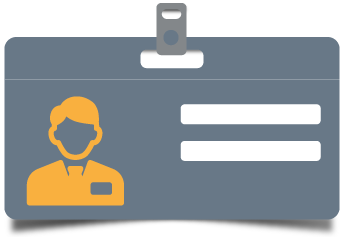
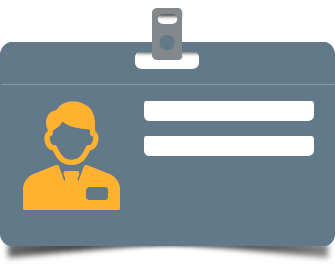
Acceso con select de companía

Changed region(s): [[0.0, 0.0, 1.0, 1.0], [0.0597, 0.384, 0.3582, 0.8861]]

diff --git a/public/css/centrado.css b/public/css/centrado.css
@@ -6,8 +6,6 @@ body{
      height: 100%;
     margin: 0;
     /* Permalink - use to edit and share this gradient: http://colorzilla.com/gradient-editor/#e4ebef+29,cbdae0+61,b9ccd5+100 */
-/*background: #e4ebef; /* Old browsers */
-/* IE9 SVG, needs conditional override of 'filter' to 'none' */
 background-image: url(../images/fondoprincipal.jpg);
 
 }
@@ -16,23 +14,23 @@ background-image: url(../images/fondoprincipal.jpg);
     line-height: 100px;
     text-align: center;
     width: 350px;
-    height: 250px;
+    height: 265px;
     margin: auto;
     position: absolute;
-    top: 0;
+    top: -50px;
     left: 0;
     bottom: 0;
     right: 0;
-    overflow: auto;
+    overflow: hidden;
     background-image:url('../images/dni.png');
     background-repeat: no-repeat;
 }
 
 #nombre{
     position: absolute;
-    top: 106px;
-    right: 31px;
-    width: 136px;
+    top: 103px;
+    right: 37px;
+    width: 168px;
     border: none;
     background-color: transparent;
     outline: none;
@@ -41,25 +39,64 @@ background-image: url(../images/fondoprincipal.jpg);
 
 #password{
     position: absolute;
-    top: 143px;
-    right: 31px;
-    width: 136px;
+    top: 138px;
+    right: 36px;
+    width: 170px;
     border: none;
     background-color: transparent;
     outline: none;
     z-index: 10;
 }
 
+.caja {
+        height: 20px;
+    overflow: hidden;
+    width: 169px;
+    position: absolute;
+    top: 169px;
+    left: 145px;
+    z-index: 20;
+    background-color: #E4EBEF;
+    border-radius: 4px; 
+}
+
+.caja::after{
+        content: "\025be";
+    display: table-cell;
+    text-align: center;
+    padding-top: 7px;
+    width: 25px;
+    height: 30px;
+    background-color: #343C44;
+    position: absolute;
+    top: 0;
+    right: 0px;
+    pointer-events: none;
+  } 
+
+select {
+        background: transparent;
+    width: 165px;
+    border: none;
+    font-size: 14px;
+    height: 20px;
+    position: absolute;
+    left: 0px;
+    z-index: 20;
+    outline: none;
+    color: #FFB130;
+}
+
 #enviar{
-        background-image: url('../images/enviar-02.png');
+    background-image: url(../images/enviar-02.png);
     background-repeat: no-repeat;
     border: none;
     background-color: transparent;
     width: 31px;
     height: 26px;
     position: absolute;
-    top: 172px;
-    right: 30px;
+    bottom: 37px;
+    right: 36px;
     cursor: pointer;
     outline: none;
 }
@@ -69,7 +106,6 @@ background-image: url(../images/fondoprincipal.jpg);
     width: 100%;
     height: 30px;
     position: fixed;
-    left:0px;
     bottom: 0px;
     padding-bottom: 10px;
 }
@@ -85,7 +121,7 @@ input[type=checkbox] {
 }
 
 input[type=checkbox] + label:before {
-     content: "";
+    content: "";
     display: inline-block;
     width: 13px;
     height: 17px;
@@ -93,8 +129,8 @@ input[type=checkbox] + label:before {
     background: #343C44;
     vertical-align: bottom;
     position: absolute;
-    bottom: 59px;
-    left: 183px;
+    bottom: 40px;
+    left: 165px;
     border-radius: 10px;
     cursor: pointer;
 }
@@ -109,11 +145,13 @@ input[type=checkbox]:checked + label:before {
 }
 
 #tex-recordarme{
-        position: absolute;
-    top: 120px;
-    left: 199px;
+    position: absolute;
+    bottom: -2px;
+    left: 185px;
     color: #F9B03F;
     font-size: 15px;
+    margin: 0px;
+    padding: 0px;
 }
 
 img{

diff --git a/resources/views/auth/login.blade.php b/resources/views/auth/login.blade.php
@@ -5,39 +5,25 @@
 
 
 
-<!DOCTYPE html>
-<html lang="es">
 
-<head>
-    <meta charset="utf-8">
-    <title>Acceso al sistema</title>
-    
-    
-    <link href="CSS/centrado.css" rel="stylesheet">
-
-</head>
-
-<body>    
+        
         <div id="contenedor">
-            <div id="contenedor">
             {!! Form::open(['route' => 'auth/login', 'class' => 'form'])!!}
                 {!!Form::email('email','',['class'=> 'form-control','id'=>'nombre'])!!}
-                {!!Form::password('password', ['class'=> 'form-control','id'=>'password'])!!}
                 
+                <div class= "caja">
+                    {!!Form::select('Compania_idCompania',$compania, 0,["placeholder" =>"Seleccione la Compañía"])!!}
+                </div>
+                    {!!Form::password('password', ['class'=> 'form-control','id'=>'password'])!!}
+               
+                <input type="checkbox" name="recordarme" id="recordarme">
+                <label for="recordarme"></label>
                 <p id="tex-recordarme">Recordame</p>
                 {!! Form::submit('',['id' => 'enviar']) !!}
             {!!Form::close()!!}
         </div>
-        <div id="footer">
-            <img src="images/logo-02.png">
-            <p>Sistema ... Todos los derechos reservados</p>
-        </div>
-      </body>
-
-</html>
+       
 
 
 
-	</div>
-</div>
 @stop

diff --git a/resources/views/layouts/bienvenida.blade.php b/resources/views/layouts/bienvenida.blade.php
@@ -5,7 +5,7 @@
 	<meta http-equiv="X-UA-Compatible" content="IE=edge">
 	<meta name="viewport" content="width=device-width, initial-scale=1.0">
 	
-	{!!Html::style('CSS/principal.css'); !!}
+	{!!Html::style('css/principal.css'); !!}
 
 	<title>Asisge S.A.</title>
 </head>
